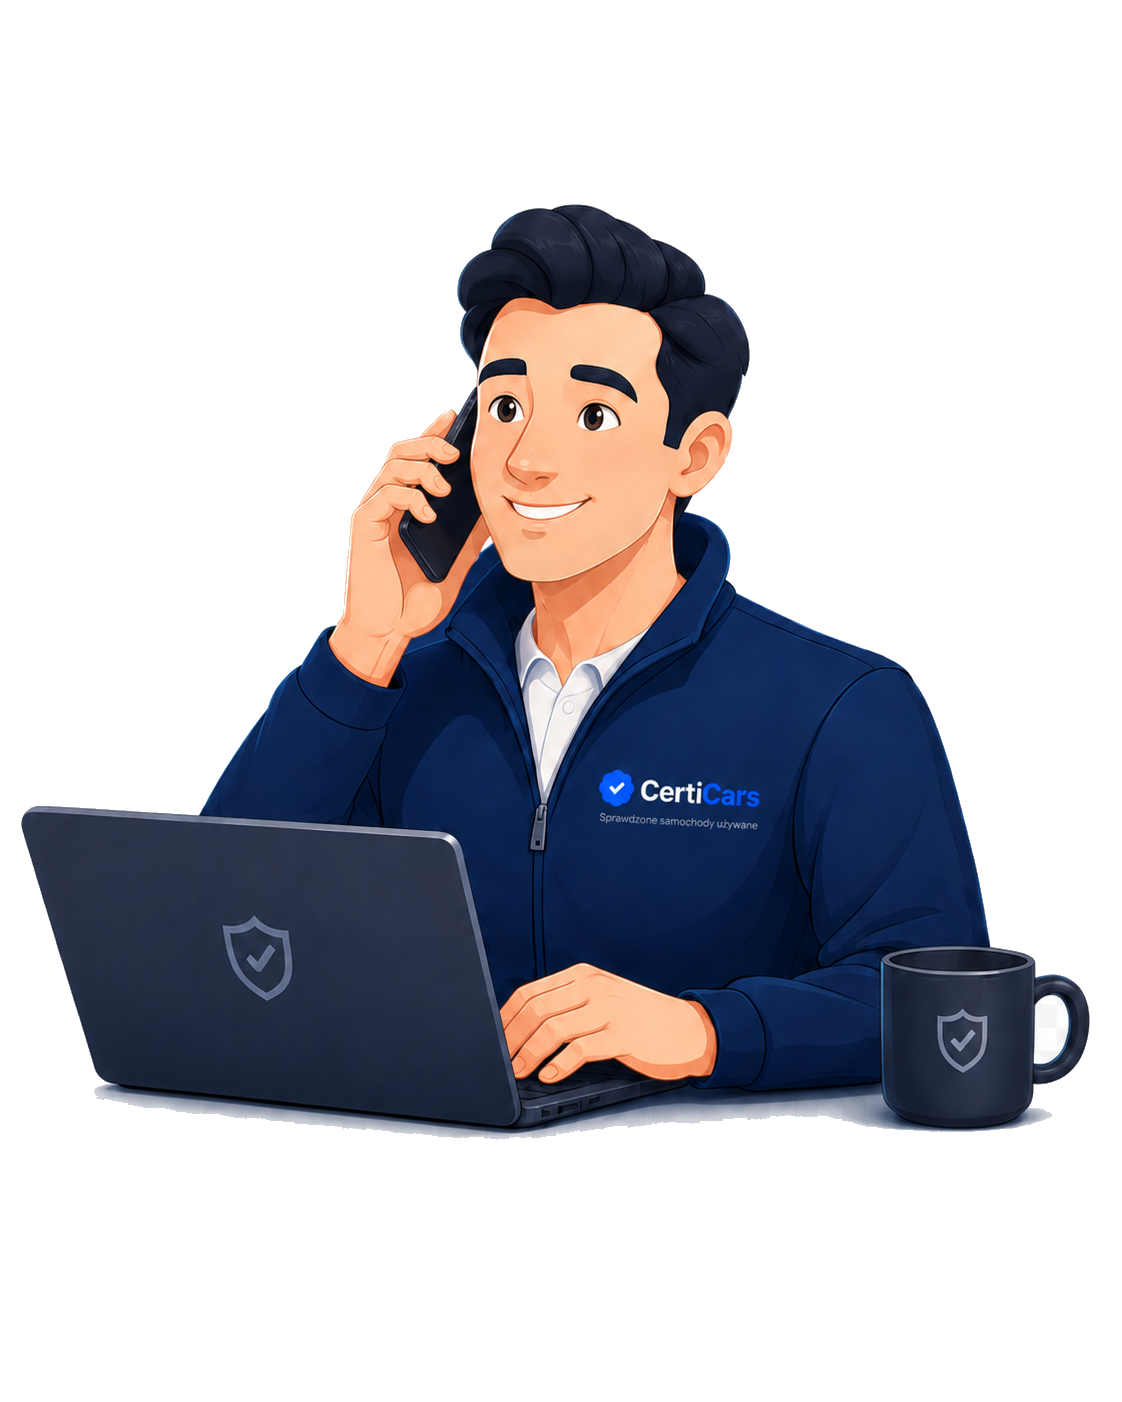
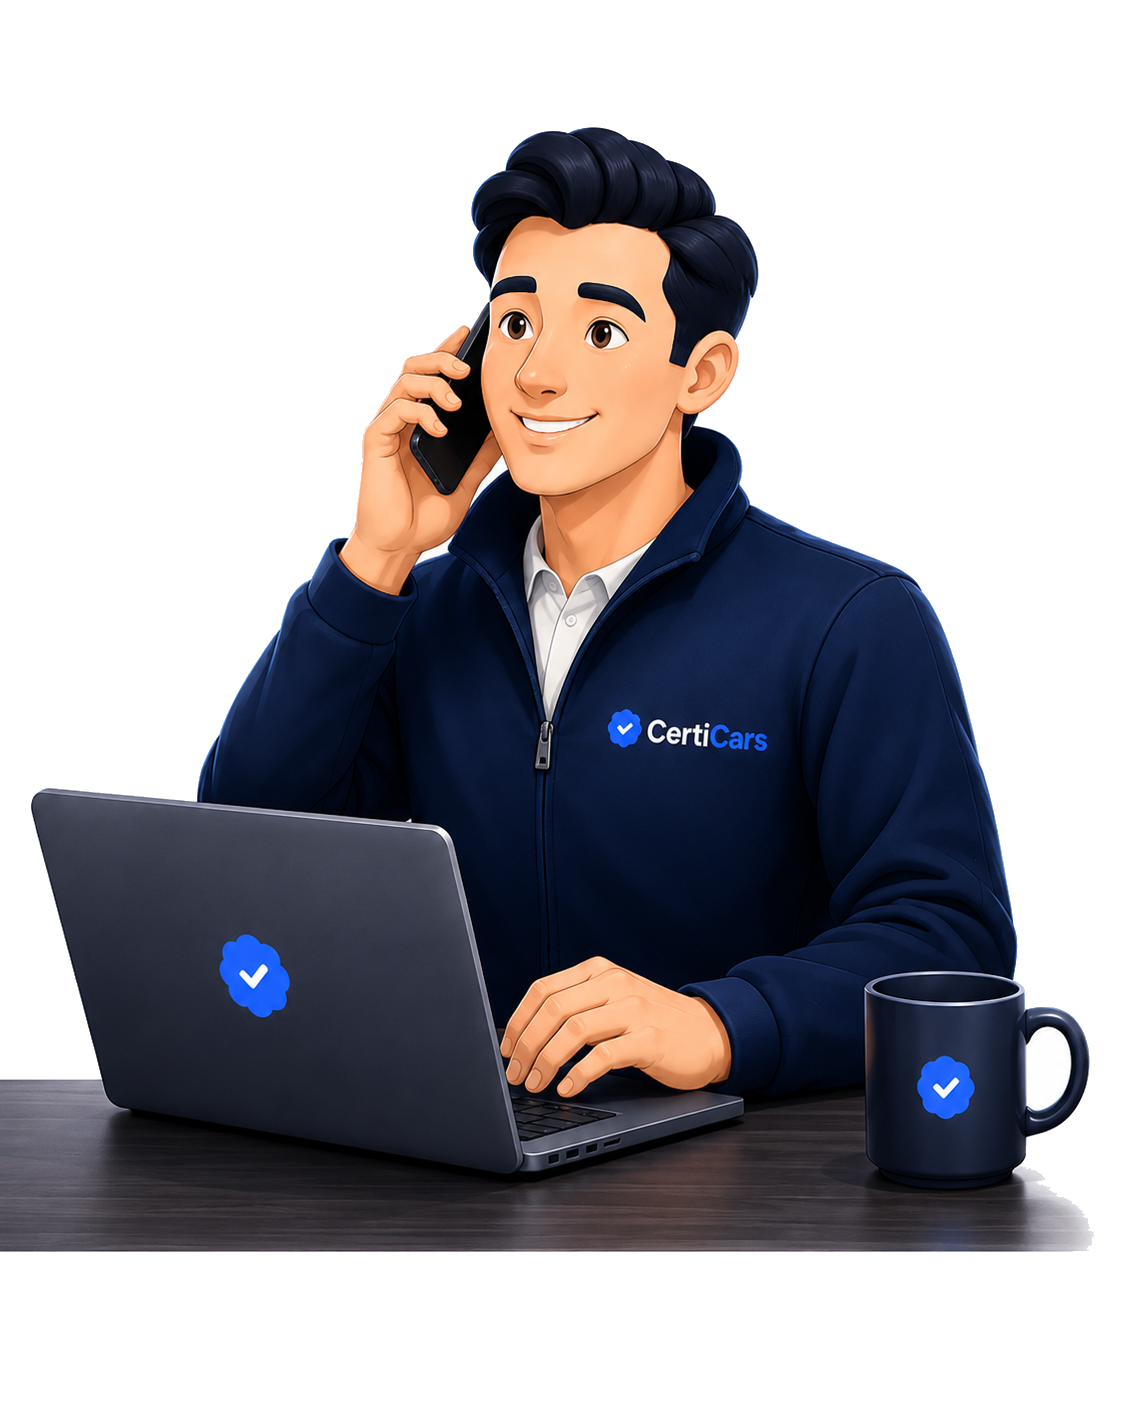
refresh(about): swap CTA hero to bohaternowy.png (3D CertiCars consultant)
Replaces the 2D consultant illustration in the "Porozmawiajmy o aucie"
CTA with the new 3D-rendered CertiCars hero supplied by the user
(bohaternowy.png). The image path stays /images/bohater.png so the
existing positioning (right:36 bottom:-16 width:42% break-out above the
dark card) carries over unchanged.

- bohaternowy.png at project root was 1122x1402 RGB with an off-white
  background — flood-filled from the corners with ImageMagick (12%
  fuzz) so the outer background goes transparent while the white
  inside the CertiCars chest logo + mug highlights stay intact.
- Output saved at public/images/bohater.png as RGBA (1.1 MB).
- bohaternowy.png at project root added to .gitignore alongside
  bohater.png so future re-exports don't get committed.
- Added object-fit:contain to the .about-cta-bohater rule so the
  intrinsic aspect ratio is locked even if a future layout change
  introduces a width+height pair.
- Alt text set to "Doradca CertiCars rozmawiający z klientem o aucie"
  per the latest brief.

No layout, copy, or geometry changes — only the asset + alt + the
object-fit safety. Card 1152x356, image 484x605 (per Puppeteer probe);
suite 264 passed (971 assertions).

diff --git a/resources/views/pages/about.blade.php b/resources/views/pages/about.blade.php
@@ -116,7 +116,7 @@
    card at ~280 px tall and bottom:-16, that means the head + shoulders
    extend ~310 px above the card's top edge — the dramatic "break-out"
    look from the reference. */
-.about-cta-bohater{position:absolute;right:36px;bottom:-16px;width:42%;max-width:520px;min-width:360px;height:auto;z-index:5;pointer-events:none;user-select:none;-webkit-user-drag:none;filter:drop-shadow(0 28px 44px rgba(0,0,0,.55))}
+.about-cta-bohater{position:absolute;right:36px;bottom:-16px;width:42%;max-width:520px;min-width:360px;height:auto;object-fit:contain;z-index:5;pointer-events:none;user-select:none;-webkit-user-drag:none;filter:drop-shadow(0 28px 44px rgba(0,0,0,.55))}
 
 /* ===== Responsive ===== */
 @media(max-width:1024px){
@@ -334,7 +334,7 @@
                     </div>
                 </div>
             </div>
-            <img class="about-cta-bohater" src="/images/bohater.png" alt="" loading="lazy" decoding="async" width="1122" height="1402">
+            <img class="about-cta-bohater" src="/images/bohater.png" alt="Doradca CertiCars rozmawiający z klientem o aucie" loading="lazy" decoding="async" width="1122" height="1402">
         </div>
     </div>
 </section>
